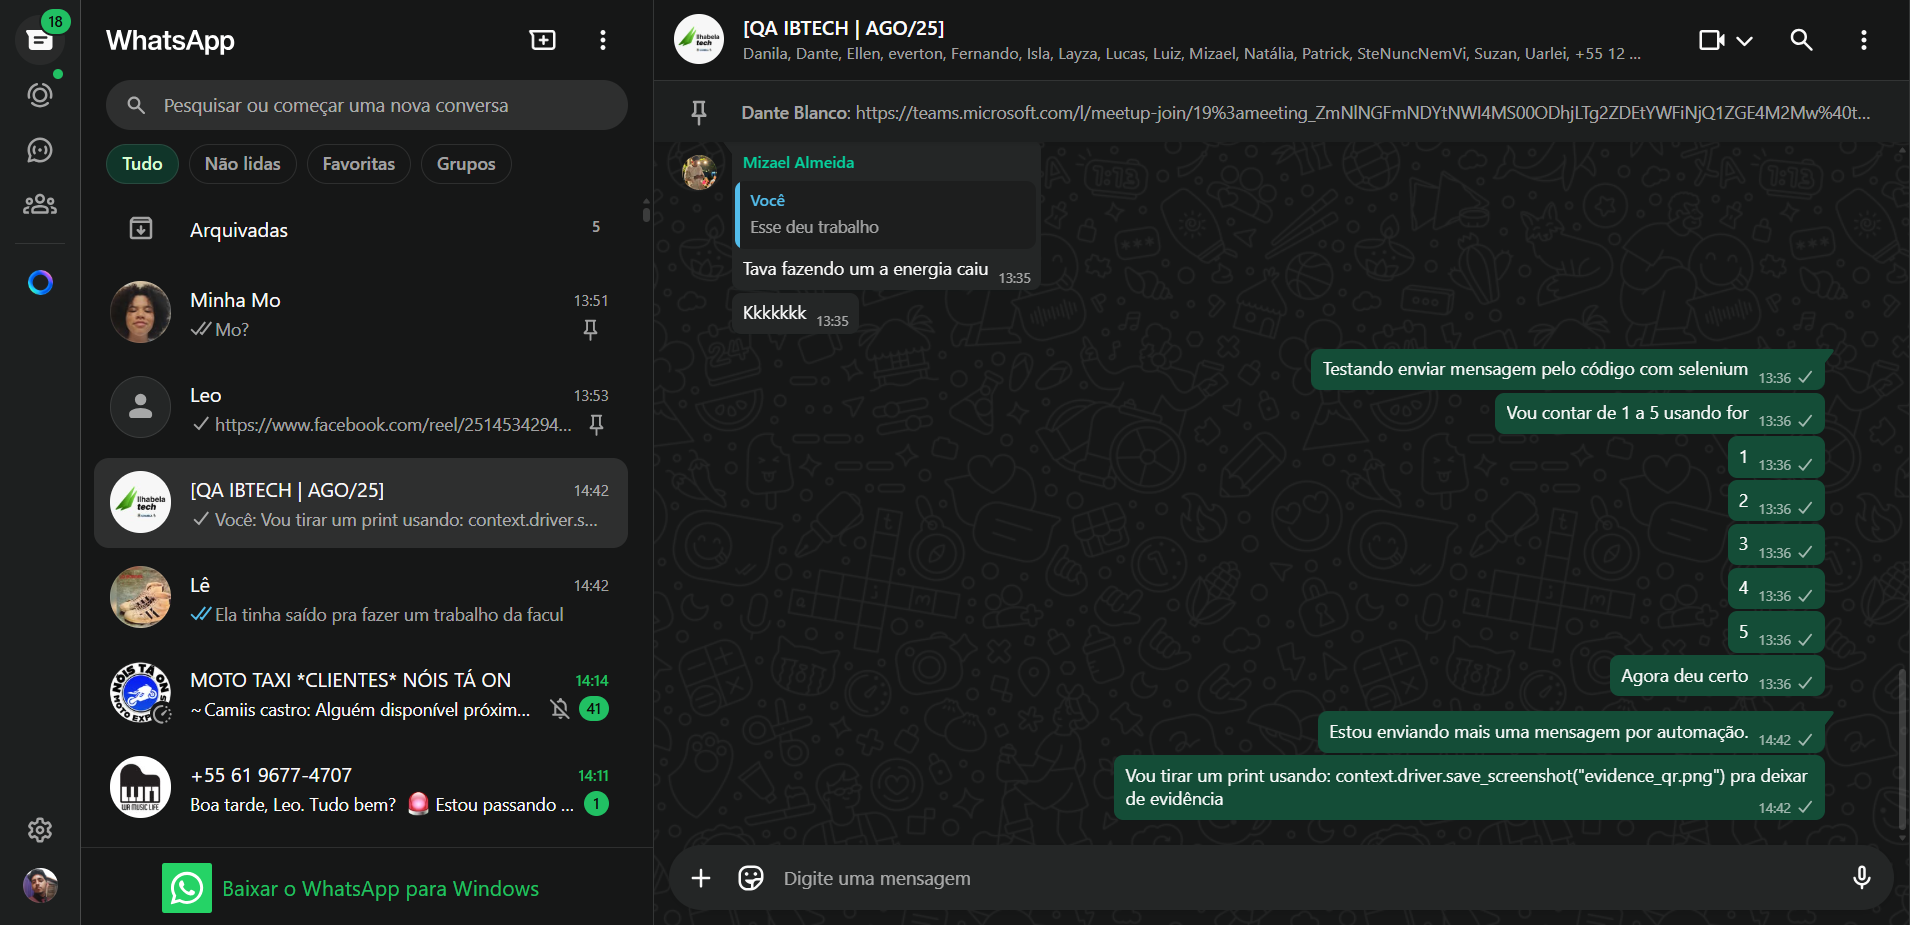
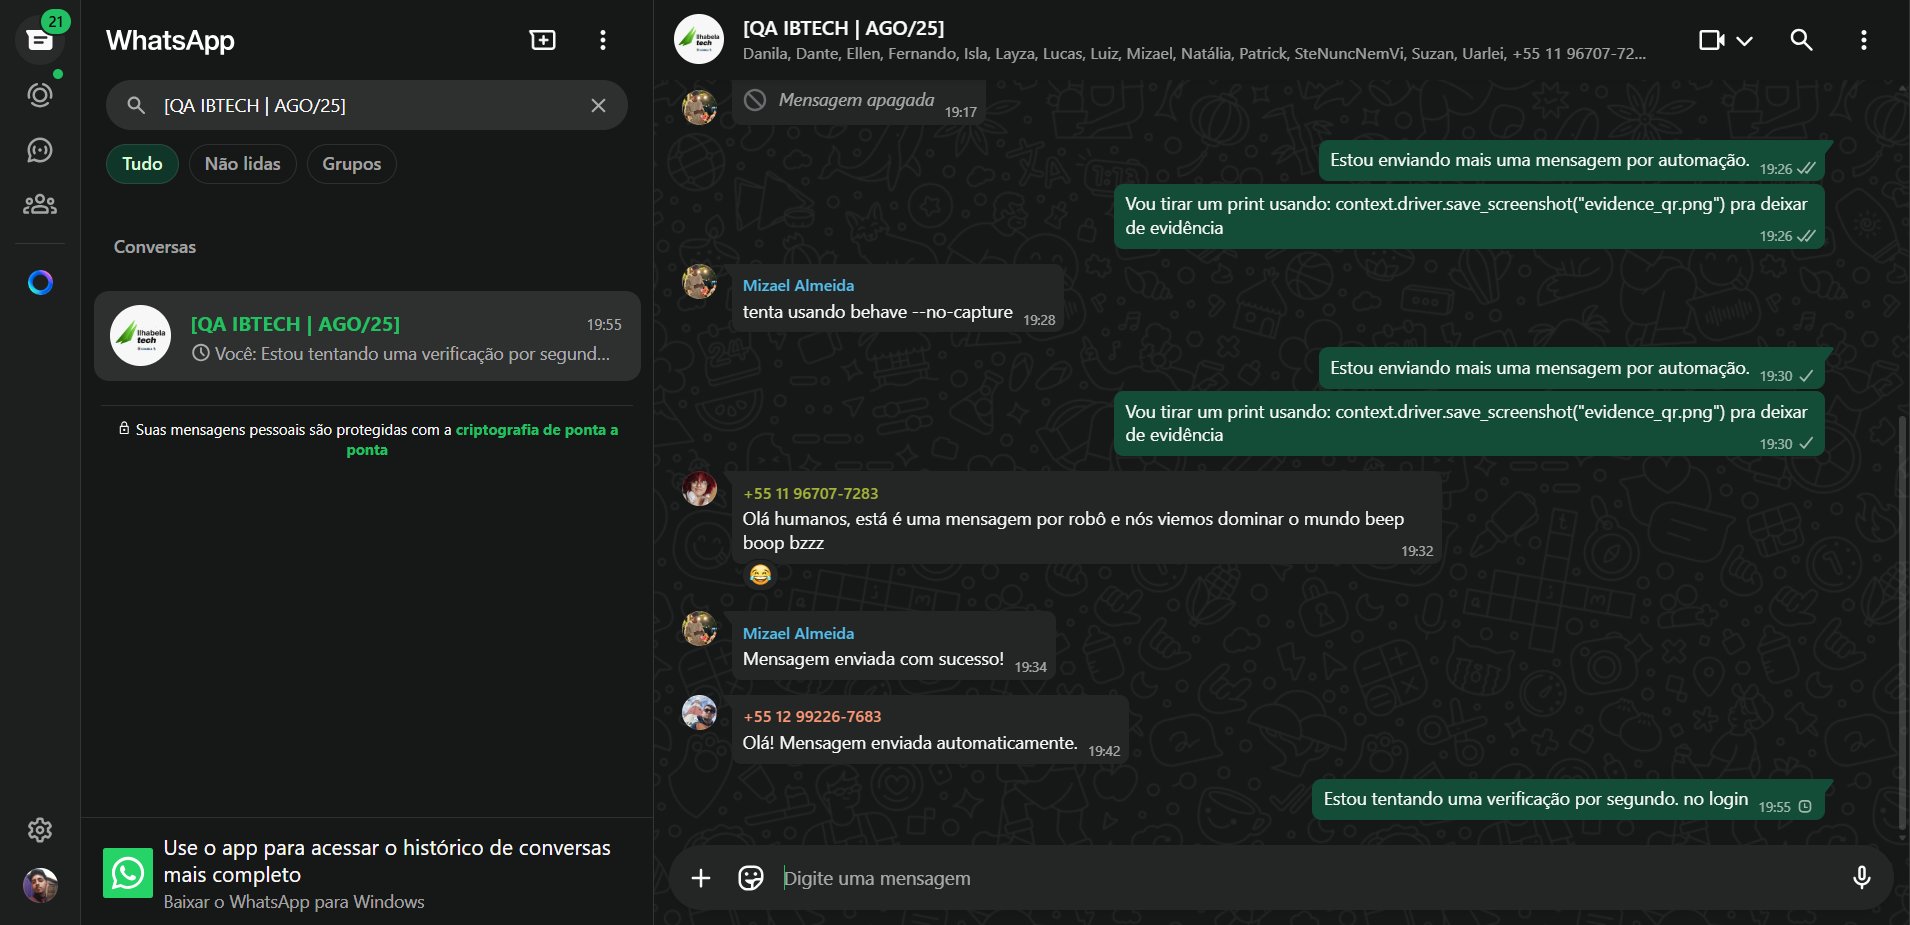
Adicionado automação formulário

diff --git a/Automacao-2025/features/steps/steps_buscar_site.py b/Automacao-2025/features/steps/steps_buscar_site.py
@@ -1,5 +1,3 @@
-
-#5⃣6⃣7⃣8⃣9⃣🔟
 # ============================================================
 # 🧩 Importação das bibliotecas necessárias
 # ============================================================
@@ -25,8 +23,6 @@ from selenium.webdriver.common.by import By
 from selenium.webdriver.common.keys import Keys  
 # Permite simular o uso de teclas do teclado, como ENTER, TAB, SETA, etc.
 
-from selenium.webdriver.support.ui import WebDriverWait
-
 import time  
 # Biblioteca padrão do Python usada aqui para adicionar pausas (delays) entre as ações.
 # Isso garante que a página tenha tempo de carregar antes do próximo comando.
@@ -34,6 +30,7 @@ import time
 # ============================================================
 # 🧠 Definição dos passos do teste BDD (Gherkin)
 # ============================================================
+
 
 # ----------------------------------------
 # 1⃣ Etapa "DADO QUE..."
@@ -65,13 +62,13 @@ def step_open_browser(context):
 # ----------------------------------------
 # 2⃣ Etapa "QUANDO..."
 # ----------------------------------------
-@when('eu pesquisar por "WhatsApp Web" no Google')
+@when('eu pesquisar por "Instituto Joga Junto" no Google')
 def step_search_google(context):
     # Localiza o campo de busca do Google pelo atributo NAME="q"
     campo = context.driver.find_element(By.NAME, "q")
 
     # Digita o texto "Instituto Joga Junto" no campo de pesquisa
-    campo.send_keys("WhatsApp Web")
+    campo.send_keys("Instituto Joga Junto")
 
     # Pressiona a tecla ENTER para executar a busca
     campo.send_keys(Keys.RETURN)
@@ -83,7 +80,7 @@ def step_search_google(context):
 # ----------------------------------------
 # 3⃣ Etapa "ENTÃO..."
 # ----------------------------------------
-@then("devo ver o site do WhatsApp aberto com sucesso")
+@then("devo ver o site do Instituto aberto com sucesso")
 def step_verify_site(context):
     # Captura todos os elementos que representam títulos de resultados (tags <h3>)
     resultados = context.driver.find_elements(By.CSS_SELECTOR, "h3")
@@ -98,78 +95,13 @@ def step_verify_site(context):
 
         # Verifica se a URL contém o termo "jogajunto"
         # Essa verificação confirma que o site do Instituto realmente foi acessado.
-        assert "web.whatsapp" in context.driver.current_url.lower()
+        assert "jogajunto" in context.driver.current_url.lower()
 
         # Exibe uma mensagem de sucesso no terminal
-        print("🌐 Site do WhatsApp Web aberto com sucesso!")
+        print("🌐 Site do Instituto Joga Junto aberto com sucesso!")
     else:
         # Caso nenhum resultado tenha sido encontrado, lança um erro de teste
         raise AssertionError("❌ Nenhum resultado encontrado.")
-    
-# ----------------------------------------
-# 4⃣ Etapa "Verifica whtastapp"
-# ----------------------------------------
 
-@given("que estou na página do WhatsApp")
-def step_verify_whtastapp(context):
-    # gerar uma variável para armazenar a url
-    if hasattr(context, 'driver'): # se tem o atributo (has attribute) driver no contexto (se o objeto contexto tem o navegador)
-        url = context.driver.current_url.lower() # url será a url atual
-    else:
-        url = "" # caso não tenha, a url será vazia
-    # verificar se a url é a certa
-    if 'web.whatsapp' not in url: # caso a url não seja a do whtasapp
-        context.driver.get("https://web.whatsapp.com") # irá pesquisar diretamente pela do whatsapp
-    
-    input("Pressione enter para prosseguir...")
-
-    time.sleep(15) # aguarda 15 segundos para o site abrir completamente
-
-    print("🌐 Site do WhatsApp Web aberto com sucesso!")
-    
-@when('eu logar com QR code')
-def wait_login(context):
-    """
-    Aqui o script aguarda o usuário escanear o QR (ação manual).
-    Timeout padrão: 180 segundos — ajuste conforme sua necessidade.
-    """
-    print("📱 Por favor, escaneie o QR code com seu celular para fazer login no WhatsApp Web.")
-
-    """ 
-    # tira screenshot do QR (opcional, útil para evidência)
-    try:
-        context.driver.save_screenshot("evidence_qr.png")
-        print("📸 Screenshot do QR salva: evidence_qr.png")
-    except Exception:
-        print("⚠ Não foi possível salvar screenshot do QR (ignorando).")
-    """
-
-    verificadores_login = 'div[contenteditable="true"][data-tab]'
-
-    timeout_total = 180
-    inicio = time.time()
-
-
-    while time.time() - inicio< timeout_total:
-        if context.driver.find_element(By.CSS_SELECTOR, verificadores_login):
-            print('Login detectado')
-        else:
-            raise AssertionError("❌ Timeout: login não detectado.")
-        
-
-@then('devo ver a userpage do WhatsApp Web')
-def verify_login(context):
-
-    verificadores_login = 'div[aria-label="Lista de conversas"][role="grid"]'
-
-    timeout_total = 180
-    inicio = time.time()
-
-
-    while time.time() - inicio< timeout_total:
-        if context.driver.find_element(By.CSS_SELECTOR, verificadores_login):
-            print('Login detectado')
-        else:
-            raise AssertionError("❌ Timeout: login não detectado.")
     # Encerra o navegador ao final do teste
     context.driver.quit()

diff --git a/Automacao-2025/Mensagem_whatsapp/features/steps/steps_logar_whatsapp.py b/Automacao-2025/Mensagem_whatsapp/features/steps/steps_logar_whatsapp.py
@@ -2,6 +2,8 @@
 # 🧩 Importação das bibliotecas necessárias 1⃣2⃣3⃣
 # ============================================================
 
+# rodar com behave -f plain
+
 from behave import given, when, then
 
 from selenium.webdriver import Edge
@@ -10,6 +12,17 @@ from selenium.webdriver.common.by import By
 from selenium.webdriver.common.keys import Keys
 
 import time
+
+# ============================================================
+# Utilitários
+# ============================================================
+def enviar_mensagem(e,m):
+    escrever = e
+
+    escrever.send_keys(m)
+    escrever.send_keys(Keys.RETURN)
+
+
 
 # ============================================================
 # 🧠 Definição dos passos do teste BDD (Gherkin)
@@ -57,15 +70,34 @@ def step_abrir_WhatsApp(context):
 # ----------------------------------------
 @when('o usuário Logar')
 def step_wait_forLogin(context):
-    time.sleep(60)
+    time_total = 60
     
-    grid = context.driver.find_element(By.CSS_SELECTOR, '[aria-label="Lista de conversas"]')
+    for tempo in range(time_total):
+        time.sleep(1)
+        try:
+            grid = context.driver.find_element(By.CSS_SELECTOR, '[aria-label="Lista de conversas"]')
+            if grid:
+                print('🌐 Login detectado com sucesso!')
+                break
+            else:
+                pass
+        except:
+            pass
+        
 
-    if grid:
+"""         try grid = context.driver.find_element(By.CSS_SELECTOR, '[aria-label="Lista de conversas"]')
+        if grid:
+            print('🌐 Login detectado com sucesso!')
+        else:
+            time.sleep(1)
+            pass """
+    
+
+"""     if grid:
         print('🌐 Login detectado com sucesso!')
     else:
         raise AssertionError("❌ Timeout: login não detectado.")
-
+ """
 @when('encontrar o grupo de mensagem')
 def step_encontrar_grupo(context):
     pesquisa = context.driver.find_element(By.CSS_SELECTOR, '[contenteditable="true"]')
@@ -89,12 +121,15 @@ def step_encontrar_grupo(context):
 
 @then('a mensagem será editada e enviada')
 def step_send_mensage(context):
-    escrever = context.driver.find_element(By.CSS_SELECTOR, '[aria-label="Digitar no grupo [QA IBTECH | AGO/25]"]') # [aria-label="Digitar na conversa com _____"]
+    
+    e = context.driver.find_element(By.CSS_SELECTOR, '[aria-label="Digitar no grupo [QA IBTECH | AGO/25]"]') # [aria-label="Digitar na conversa com _____"]
+    m = 'Estou tentando uma verificação por segundo. no login'
+    
+    enviar_mensagem(e,m)
 
-    escrever.send_keys('Estou enviando mais uma mensagem por automação.')
-    escrever.send_keys(Keys.RETURN)
-    escrever.send_keys('Vou tirar um print usando: context.driver.save_screenshot("evidence_qr.png") pra deixar de evidência')
-    escrever.send_keys(Keys.RETURN)
+    #escrever.send_keys(Keys.RETURN)
+    #escrever.send_keys('Vou tirar um print usando: context.driver.save_screenshot("evidence_qr.png") pra deixar de evidência')
+    #escrever.send_keys(Keys.RETURN)
 
     """  
     for i in range(5):
@@ -103,12 +138,12 @@ def step_send_mensage(context):
         escrever.send_keys(Keys.RETURN) 
     """
     
-    time.sleep(3)
+    time.sleep(5)
 
     context.driver.save_screenshot("evidence_qr.png")
 
-    escrever.send_keys('Quem tiver difículdade pode me mandar mensagem')
+    """ escrever.send_keys('Quem tiver difículdade pode me mandar mensagem')
 
     time.sleep(3)
-
+ """
     print('mensagem enviada com sucesso, código desligando')

diff --git a/Automacao-2025/preencher_formulario/features/steps/steps_formulario.py b/Automacao-2025/preencher_formulario/features/steps/steps_formulario.py
@@ -1,0 +1,67 @@
+from behave import given, when, then #importa o behave
+
+from selenium.webdriver import Edge # importa o Microsoft Edge
+from selenium.webdriver.edge.options import Options # Importa as opções do edge
+from selenium.webdriver.common.by import By # importa o Módulo By que interage com seletores html
+from selenium.webdriver.support.ui import Select # Select lida com seletores de escolha
+# from selenium.webdriver.common.keys import Keys  # keys não estava sendo usado então deixei comentado
+import json # importa o json para poder buscar os dados
+import os # importa os para buscar o caminho do arquivo json
+
+
+import time
+
+@given('que o navegador Microsoft Edge está aberto no site do joga junto')
+def step_abrir_site(context):
+    options=Options()
+    options.add_argument("--Start-maximized")
+    options.add_argument("--disable-blink-features=AutomationControlled")
+    options.add_experimental_option("excludeSwitches",["enable-logging"])
+
+    context.driver = Edge(options=options)
+    print('logado')
+    context.driver.get("https://formulario-contato-m8p8.onrender.com/")
+
+    time.sleep(3)
+
+@when('eu preencher o formulário')
+def preencher_formulário(context):
+
+    data_dir = os.path.join(os.path.dirname(__file__), 'dados.json')
+
+    with open (data_dir, 'r', encoding='utf-8') as arquivo:
+        dados = json.load(arquivo)
+
+    forms = {    
+        'nome' : context.driver.find_element(By.NAME, "nome"),
+        'email' : context.driver.find_element(By.NAME, "email"),
+        'telefone' : context.driver.find_element(By.NAME, "telefone"),
+        'cidade' : Select(context.driver.find_element(By.NAME, "cidade")),
+        'bairro' : context.driver.find_element(By.NAME, "bairro"),
+        'escolaridade' : context.driver.find_elements(By.NAME, "escolaridade"),
+        'mensagem' : context.driver.find_element(By.NAME, "mensagem")
+    }
+
+    forms['nome'].send_keys(dados['nome'])
+    forms['email'].send_keys(dados['email'])
+    forms['telefone'].send_keys(dados['telefone'])
+    forms['cidade'].select_by_visible_text(dados['cidade'])
+    forms['bairro'].send_keys(dados['bairro'])
+
+    for checkbox in forms['escolaridade']: # falta testar
+        if checkbox.get_attribute("value") == dados['escolaridade']:
+            checkbox.click()
+            break
+
+
+    #forms['escolaridade'][1].click()
+    forms['mensagem'].send_keys(dados['mensagem'])
+    time.sleep(3)
+
+@then('eu enviarei a mensagem')
+def enviar(context):
+    enviar = context.driver.find_element(By.CSS_SELECTOR, '[class="btn btn-primary w-100 fw-bold"]')
+    #enviar.click()
+
+    input('Pressione enter...')
+    time.sleep(3)

diff --git a/teste.py b/teste.py
@@ -1,0 +1,6 @@
+i = 0
+
+while True:
+    i = (i+2)%4
+    print(i)
+    input('')
